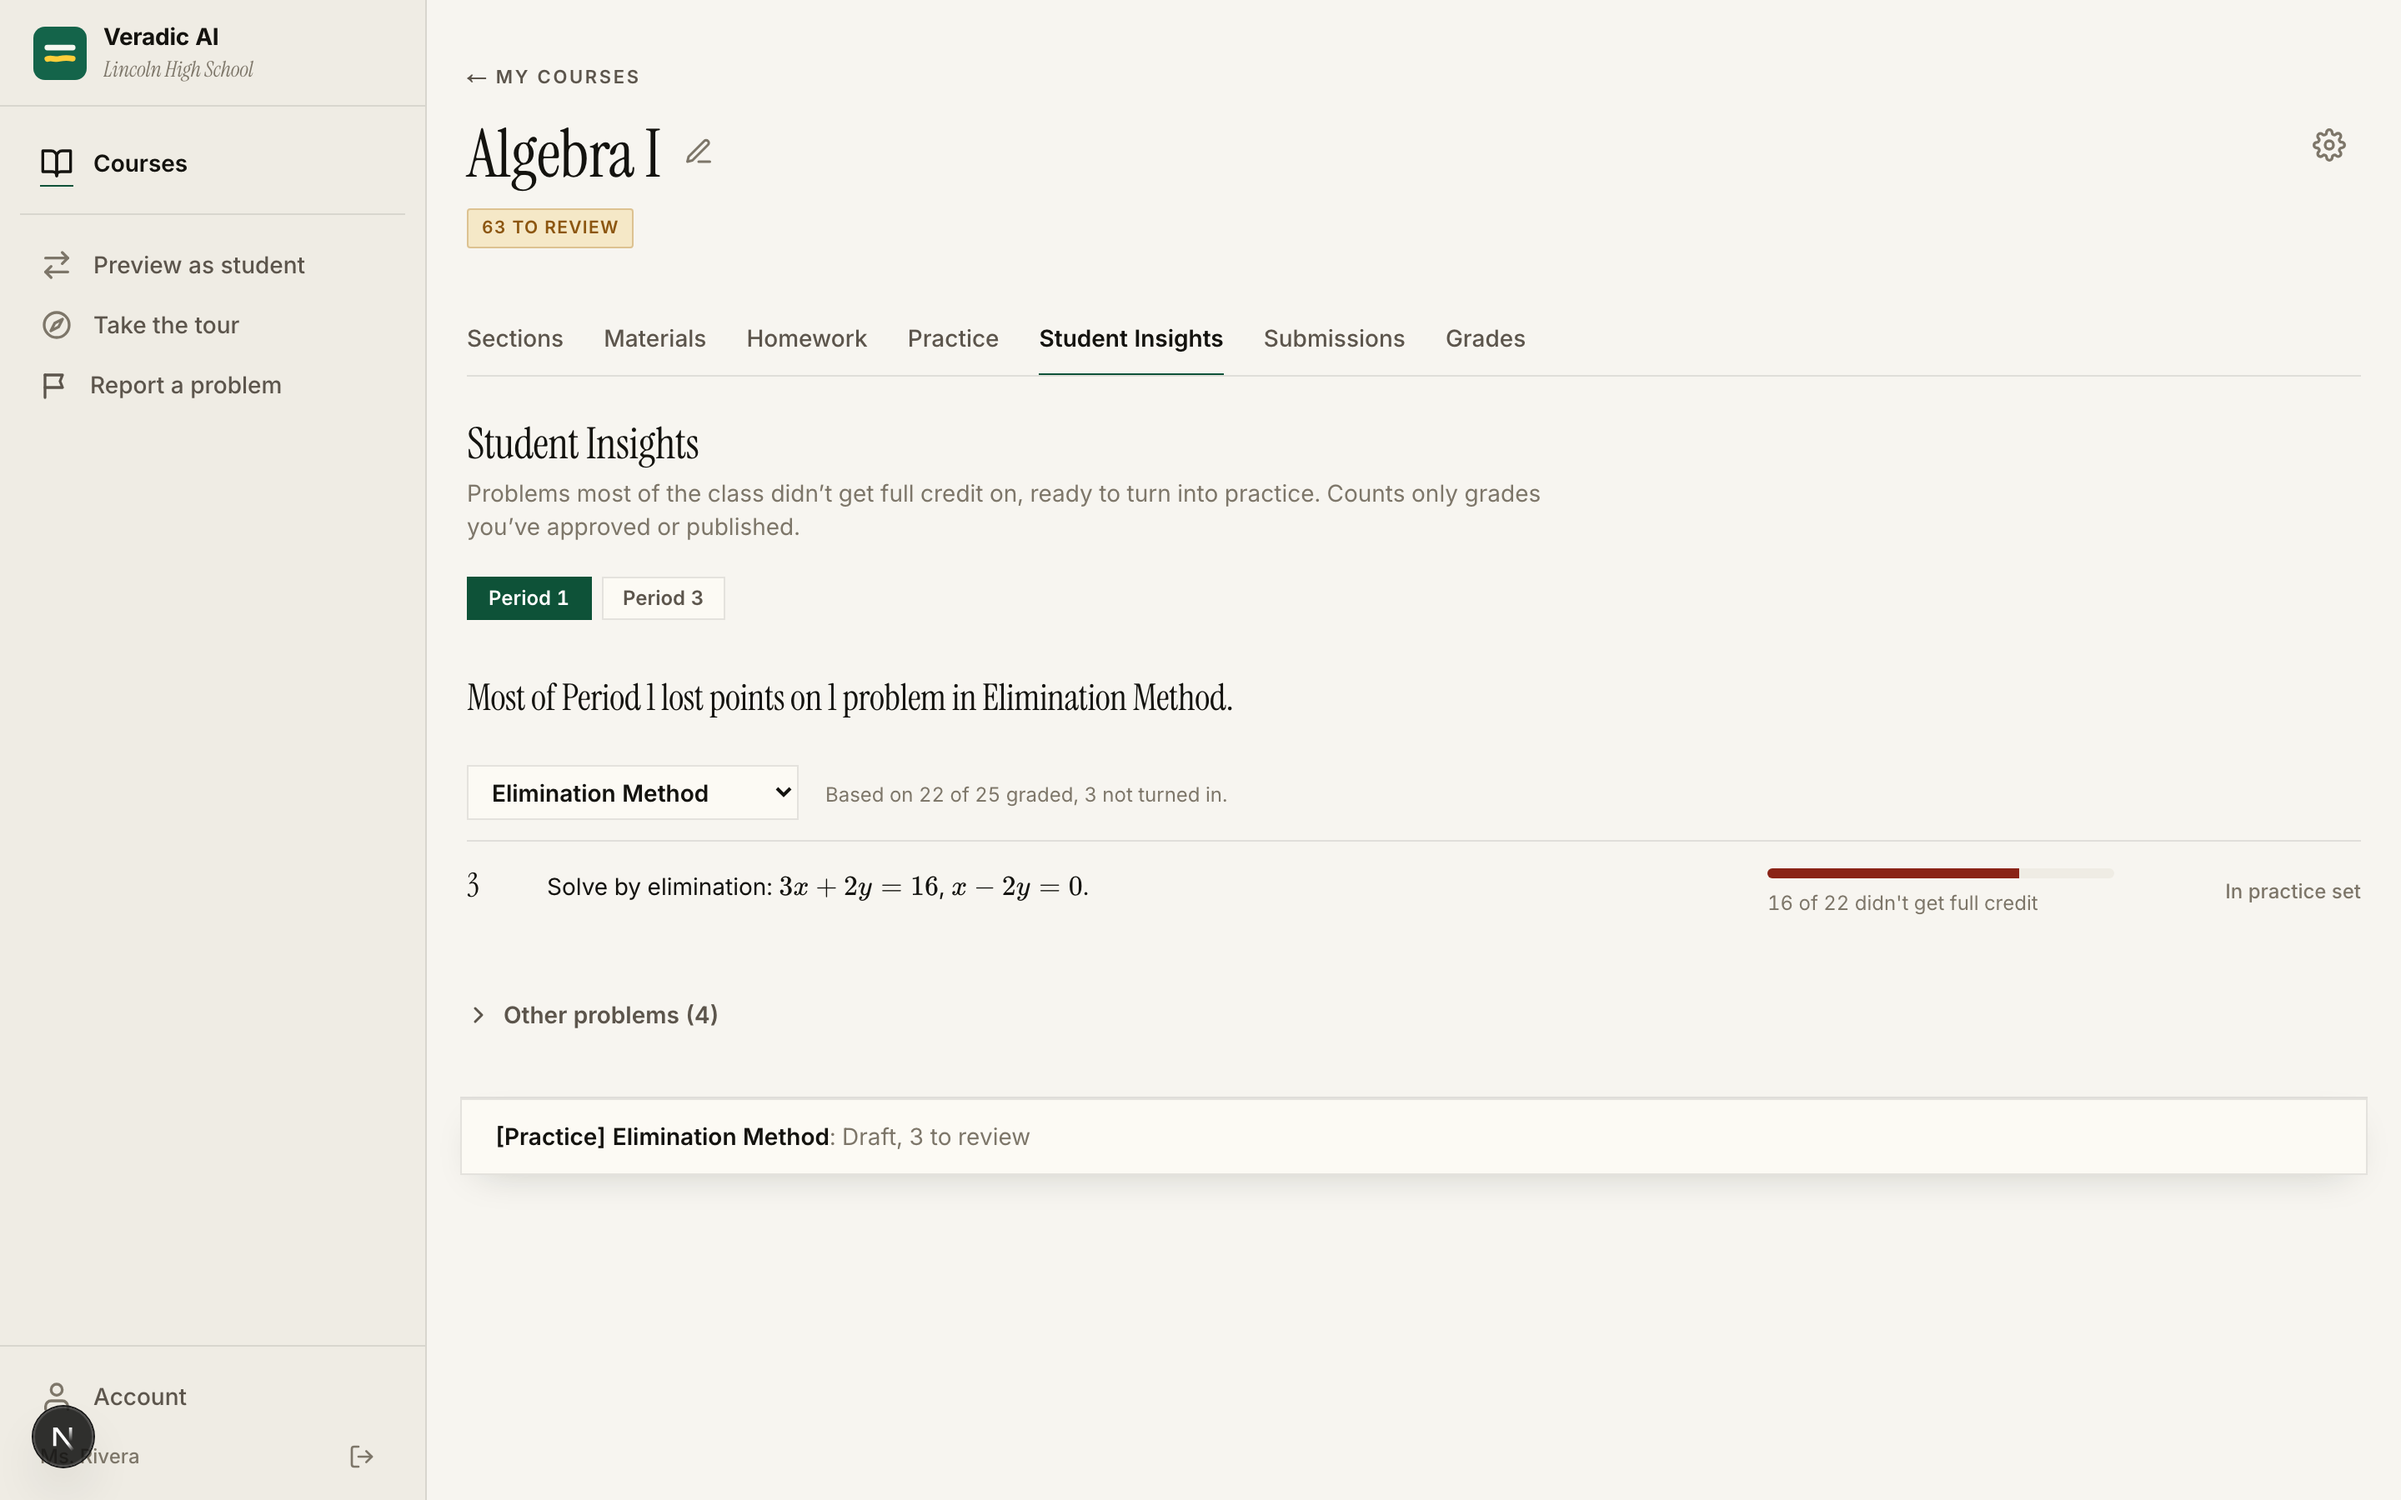
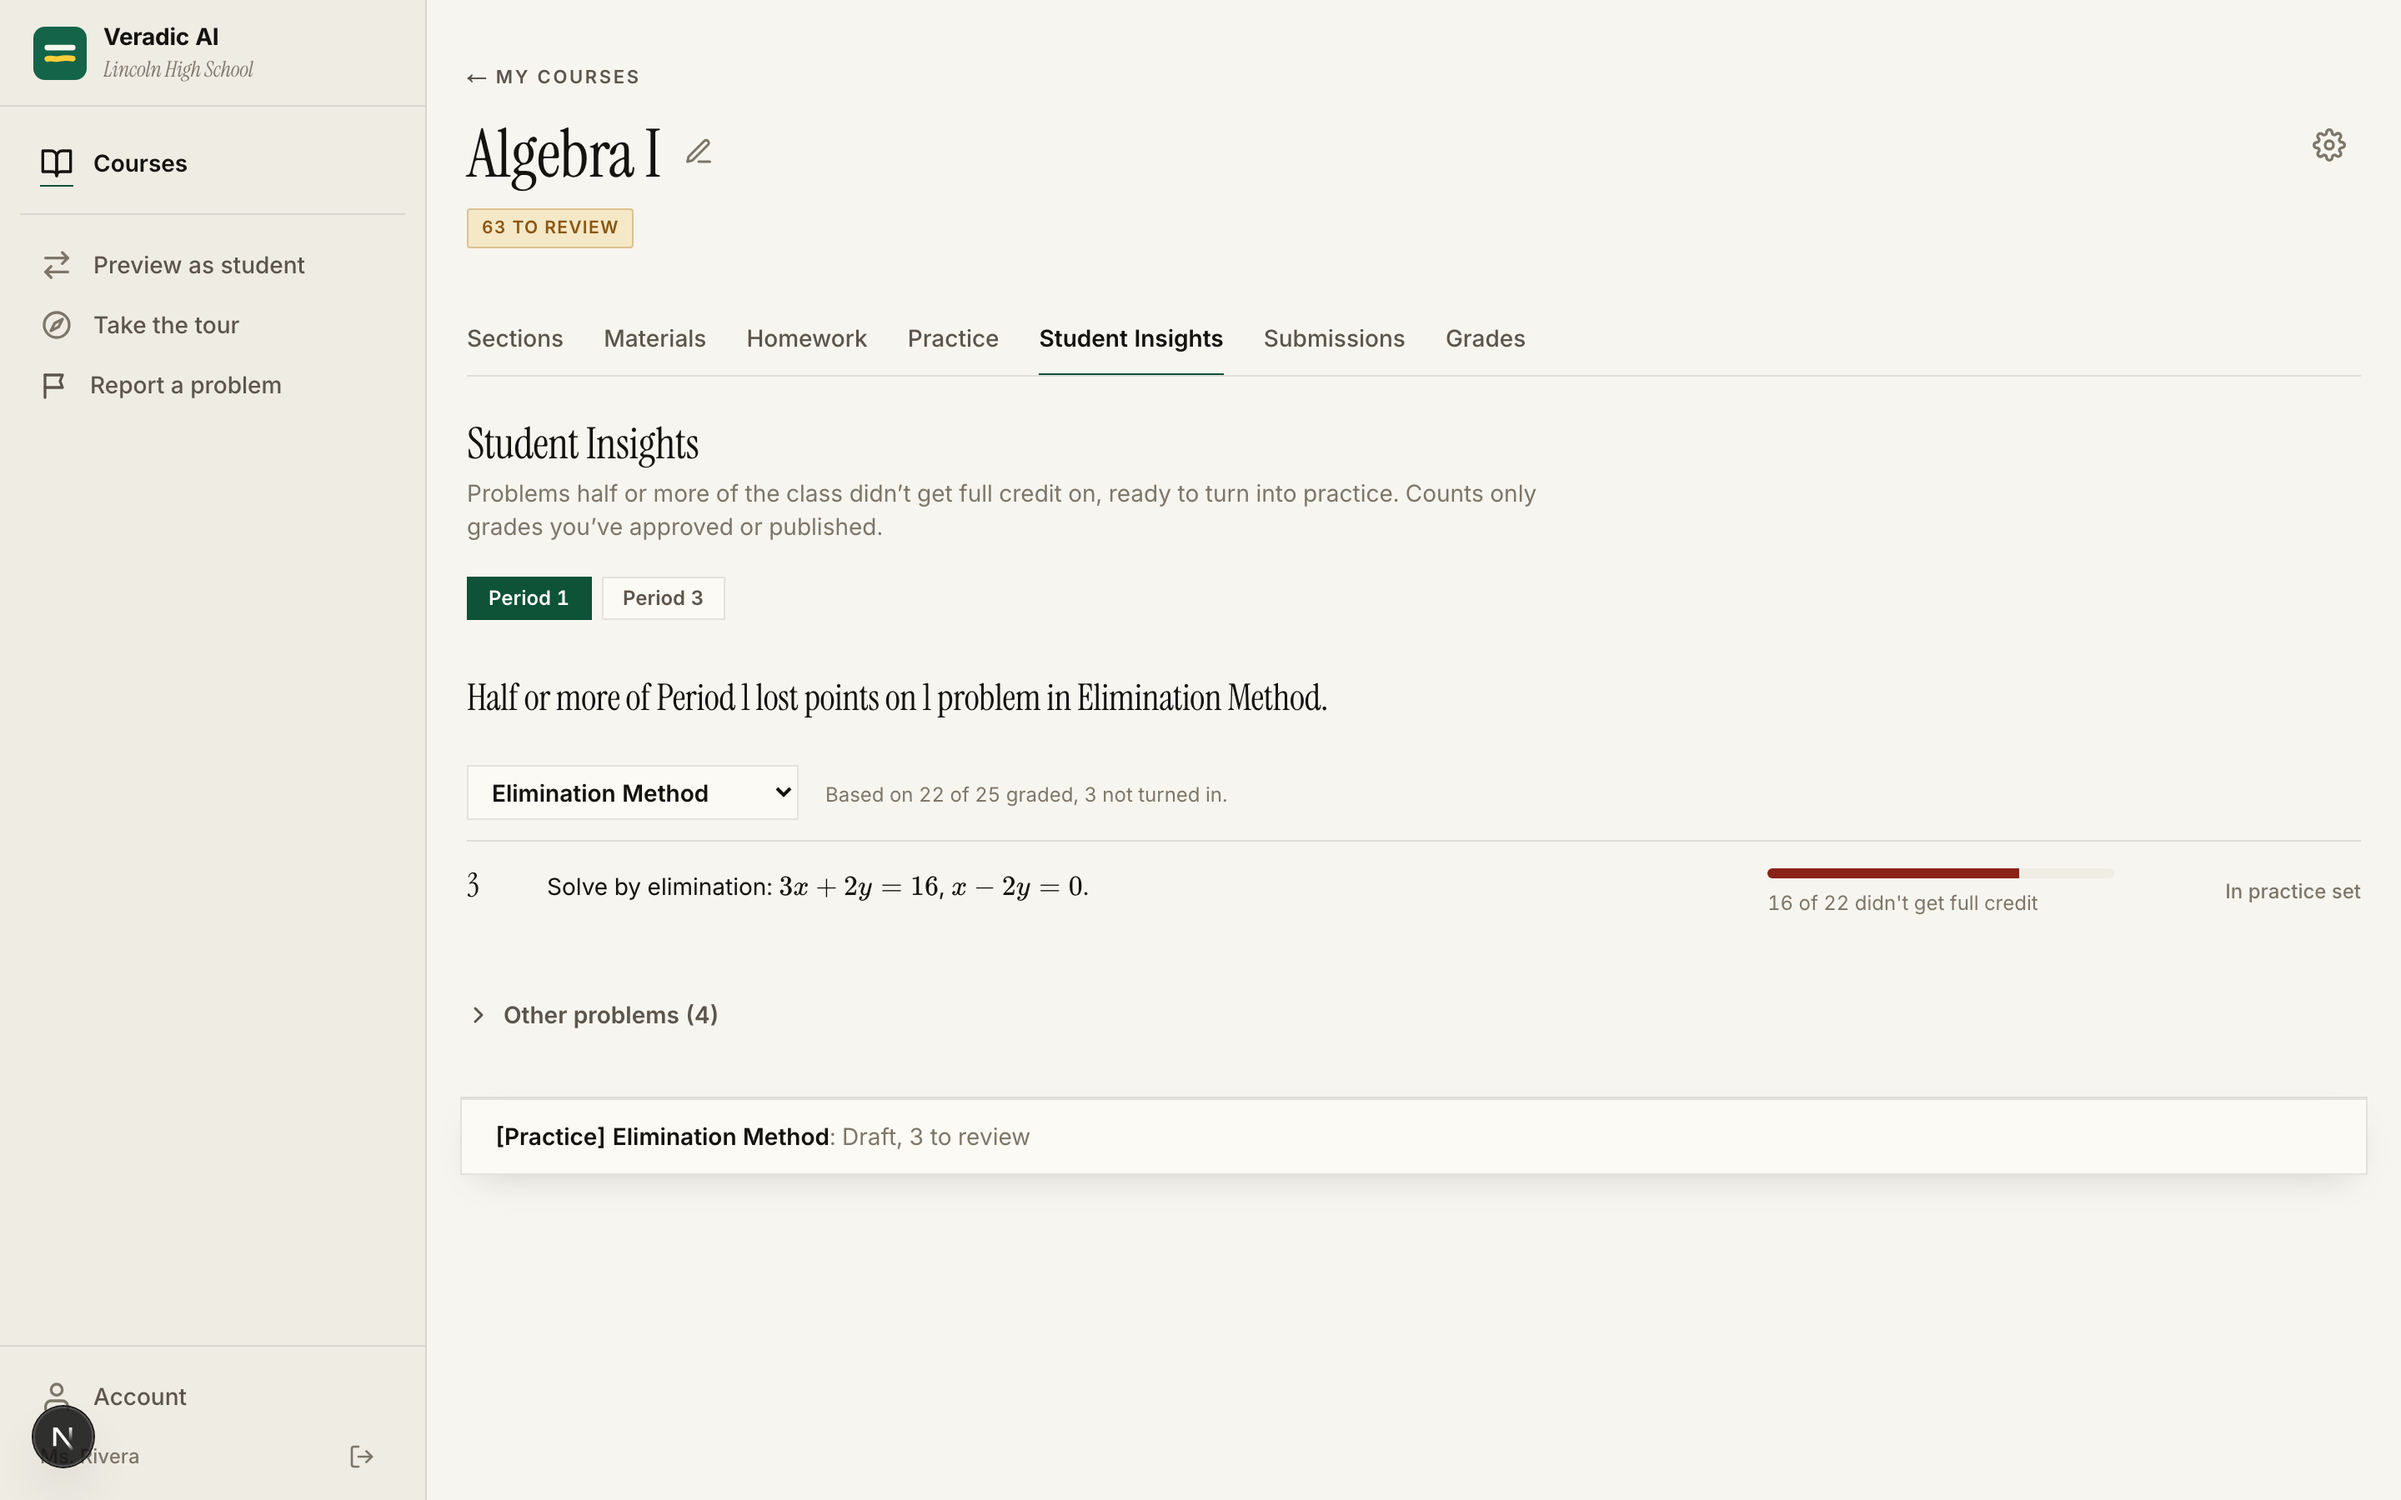
fix: a spend-cap stop never uses up reasons retries; hand-graded periods wait for their papers; copy says half or more

Changed region(s): [[0.1875, 0.4356, 0.5312, 0.4978], [0.1875, 0.3111, 0.6562, 0.3733]]

diff --git a/web/src/components/school/teacher/student-insights-tab.tsx b/web/src/components/school/teacher/student-insights-tab.tsx
@@ -124,7 +124,7 @@ export function StudentInsightsTab({ courseId }: { courseId: string }) {
           Student Insights
         </h2>
         <p className="mt-1 text-sm text-text-muted">
-          Problems most of the class didn&rsquo;t get full credit on, ready to
+          Problems half or more of the class didn&rsquo;t get full credit on, ready to
           turn into practice. Counts only grades you&rsquo;ve approved or
           published.
         </p>
@@ -330,10 +330,10 @@ function Lead({
       {tooFew
         ? `Too few grades counted on ${homework.title} to flag problems yet. It takes ${minCounted}.`
         : flagged === 0
-          ? `Most of ${sectionName} got full credit on every problem in ${homework.title}.`
+          ? `No problem in ${homework.title} was missed by half of ${sectionName} or more.`
           : flagged === 1
-            ? `Most of ${sectionName} lost points on 1 problem in ${homework.title}.`
-            : `Most of ${sectionName} lost points on ${flagged} problems in ${homework.title}.`}
+            ? `Half or more of ${sectionName} lost points on 1 problem in ${homework.title}.`
+            : `Half or more of ${sectionName} lost points on ${flagged} problems in ${homework.title}.`}
     </p>
   );
 }

diff --git a/tests/test_reteach_reasons.py b/tests/test_reteach_reasons.py
@@ -26,6 +26,7 @@ from sqlalchemy import select
 
 from api.core import reteach_reasons as rr
 from api.core.auth import create_access_token, hash_password
+from api.core.cost_tracker import PlatformStopError
 from api.database import get_session_factory
 from api.models.assignment import Assignment, AssignmentSection, Submission, SubmissionGrade
 from api.models.course import Course, CourseTeacher
@@ -110,11 +111,13 @@ class FakeModel:
 
     def __init__(self) -> None:
         self.messages: list[str] = []
-        self.fail = False
+        self.fail: bool | Exception = False
 
     async def __call__(self, system: str, user_message: str, mode: str, **kw: Any) -> dict[str, Any]:
         assert kw["model"] == rr.MODEL_HAIKU and kw["prompt_ids"] == ("reteach_reasons",)
         self.messages.append(user_message)
+        if isinstance(self.fail, Exception):
+            raise self.fail
         if self.fail:
             raise RuntimeError("model down")
         n = user_message.count("\n[")
@@ -286,6 +289,28 @@ async def test_rewrites_only_once_the_period_is_approved(client: AsyncClient, mo
     assert len(sent) == 2 and "Jo-note" in sent[1] and "Kit-note" in sent[1]
 
 
+async def test_hand_grading_rewrites_once_the_papers_are_graded(client: AsyncClient, model: FakeModel) -> None:
+    """Hand grades approve themselves, so papers not graded yet are what
+    she's still working through: the read waits for them too."""
+    w = await _world()
+    await _flagged_period(w)
+    await _student(w, "Lou", None)  # turned in, not graded yet
+    await rr.refresh_reteach_reasons(limit=1000)
+    assert len(_mine(model, w)) == 1
+
+    await _student(w, "Jo", _entry(w["pid"], "partial", "Jo-note"))
+    await rr.refresh_reteach_reasons(limit=1000)
+    assert len(_mine(model, w)) == 1
+
+    async with get_session_factory()() as s:
+        s.add(SubmissionGrade(submission_id=w["subs"]["Lou"], graded_at=NOW, reviewed_at=datetime.now(UTC),
+                              breakdown=[_entry(w["pid"], "zero", "Lou-note")]))
+        await s.commit()
+    await rr.refresh_reteach_reasons(limit=1000)
+    sent = _mine(model, w)
+    assert len(sent) == 2 and "Jo-note" in sent[1] and "Lou-note" in sent[1]
+
+
 async def test_a_failed_call_retries_then_gives_up(client: AsyncClient, model: FakeModel) -> None:
     w = await _world()
     await _flagged_period(w)
@@ -308,6 +333,24 @@ async def test_a_failed_call_retries_then_gives_up(client: AsyncClient, model: F
     # page says reasons are coming again before that pass runs.
     await _student(w, "Zed", _entry(w["pid"], "zero", "Never started"))
     assert (await _insights(client, w))["problems"][0]["reasons_pending"]
+
+
+async def test_a_platform_stop_never_uses_up_the_retries(client: AsyncClient, model: FakeModel) -> None:
+    """The daily spend cap or an open circuit breaker says "later", not
+    "this input is bad": no attempt is charged and the pair stays due."""
+    w = await _world()
+    await _flagged_period(w)
+    model.fail = PlatformStopError("Daily cost limit reached")
+    for _ in range(rr.MAX_ATTEMPTS + 1):
+        await rr.refresh_reteach_reasons(limit=1000)
+    row = await _stored(w)
+    assert row is not None and row.grades_signature is None
+    assert "attempts" not in (row.problems.get(w["pid"]) or {})
+    assert (await _insights(client, w))["problems"][0]["reasons_pending"]
+
+    model.fail = False
+    await rr.refresh_reteach_reasons(limit=1000)
+    assert (await _insights(client, w))["problems"][0]["reasons"]
 
 
 async def test_no_written_feedback_means_no_call(client: AsyncClient, model: FakeModel) -> None:

diff --git a/api/core/reteach_reasons.py b/api/core/reteach_reasons.py
@@ -51,6 +51,7 @@ from sqlalchemy import Text, func, or_, select
 from sqlalchemy.dialects.postgresql import insert as pg_insert
 from sqlalchemy.ext.asyncio import AsyncSession
 
+from api.core.cost_tracker import PlatformStopError
 from api.core.insights_counting import counted_breakdown, is_flagged, missed_full_credit, tally
 from api.core.llm_client import MODEL_HAIKU, LLMMode, call_claude_json
 from api.core.llm_schemas import ToolSchema
@@ -348,6 +349,23 @@ async def _refresh_pair(
         for e in g.breakdown
         if isinstance(e, dict)
     }
+    # A paper turned in but not graded yet (common when she grades by
+    # hand) could land on any problem, so every problem waits on it —
+    # else each hand grade, which approves itself, would buy a new read.
+    ungraded = any(
+        g.reviewed_at is None and g.grade_published_at is None and not g.breakdown for g in grades
+    ) or (await db.execute(
+        select(Submission.id)
+        .join(User, User.id == Submission.student_id)
+        .outerjoin(SubmissionGrade, SubmissionGrade.submission_id == Submission.id)
+        .where(
+            Submission.assignment_id == assignment_id,
+            Submission.section_id == section_id,
+            User.is_preview.is_(False),
+            SubmissionGrade.id.is_(None),
+        )
+        .limit(1)
+    )).first() is not None
 
     problems: dict[str, Any] = dict(row.problems or {})
     settled = True
@@ -357,7 +375,7 @@ async def _refresh_pair(
         items = _items(pid, counted)
         key = _input_key(questions[pid], items)
         entry = problems.get(pid)
-        if not needs_call(entry, key, len(items), drafts_waiting=pid in waiting_on):
+        if not needs_call(entry, key, len(items), drafts_waiting=ungraded or pid in waiting_on):
             continue
         written = {"input_key": key, "n_items": len(items), "prompt_version": prompt_version(_PROMPT)}
         if not items:
@@ -367,6 +385,14 @@ async def _refresh_pair(
             reasons = await group_reasons(
                 questions[pid], items, user_id=str(hw.teacher_id) if hw and hw.teacher_id else None,
             )
+        except PlatformStopError:
+            # The daily spend cap or the circuit breaker: every call fails
+            # the same way until it lifts, so this isn't the input's fault.
+            # Charge nothing, keep the pair stale, and stop the pass.
+            logger.warning("reteach reasons paused by a platform stop")
+            settled = False
+            tally_out["stopped"] += 1
+            break
         except Exception:  # noqa: BLE001 — a missing reason is never worth failing the drain over
             logger.exception("reteach reasons failed assignment=%s section=%s problem=%s",
                              assignment_id, section_id, pid)
@@ -397,4 +423,6 @@ async def refresh_reteach_reasons(limit: int = PAIRS_PER_PASS) -> dict[str, int]
     for assignment_id, section_id, signature in pairs:
         async with get_session_factory()() as db:
             out.update(await _refresh_pair(db, assignment_id, section_id, signature))
+        if out["stopped"]:
+            break
     return {"pairs": out["pairs"], "written": out["written"], "failed": out["failed"]}
